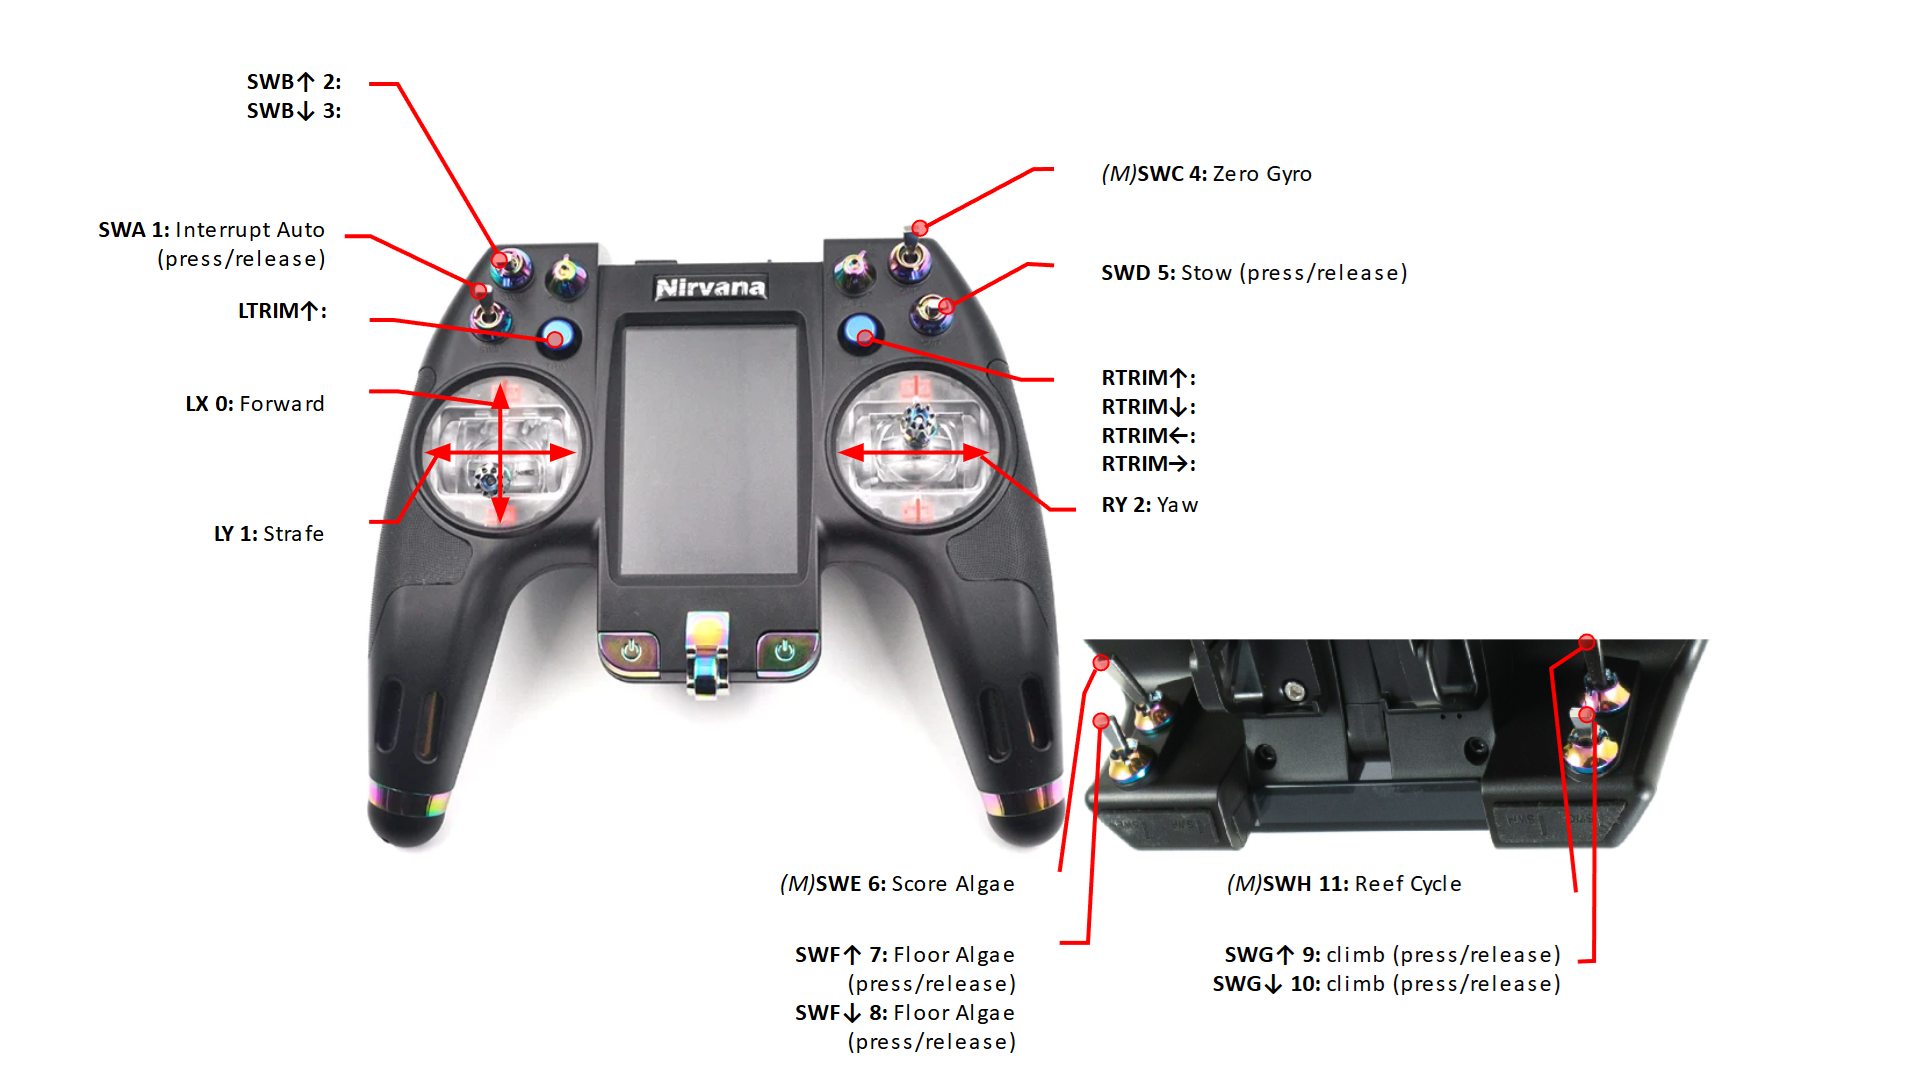
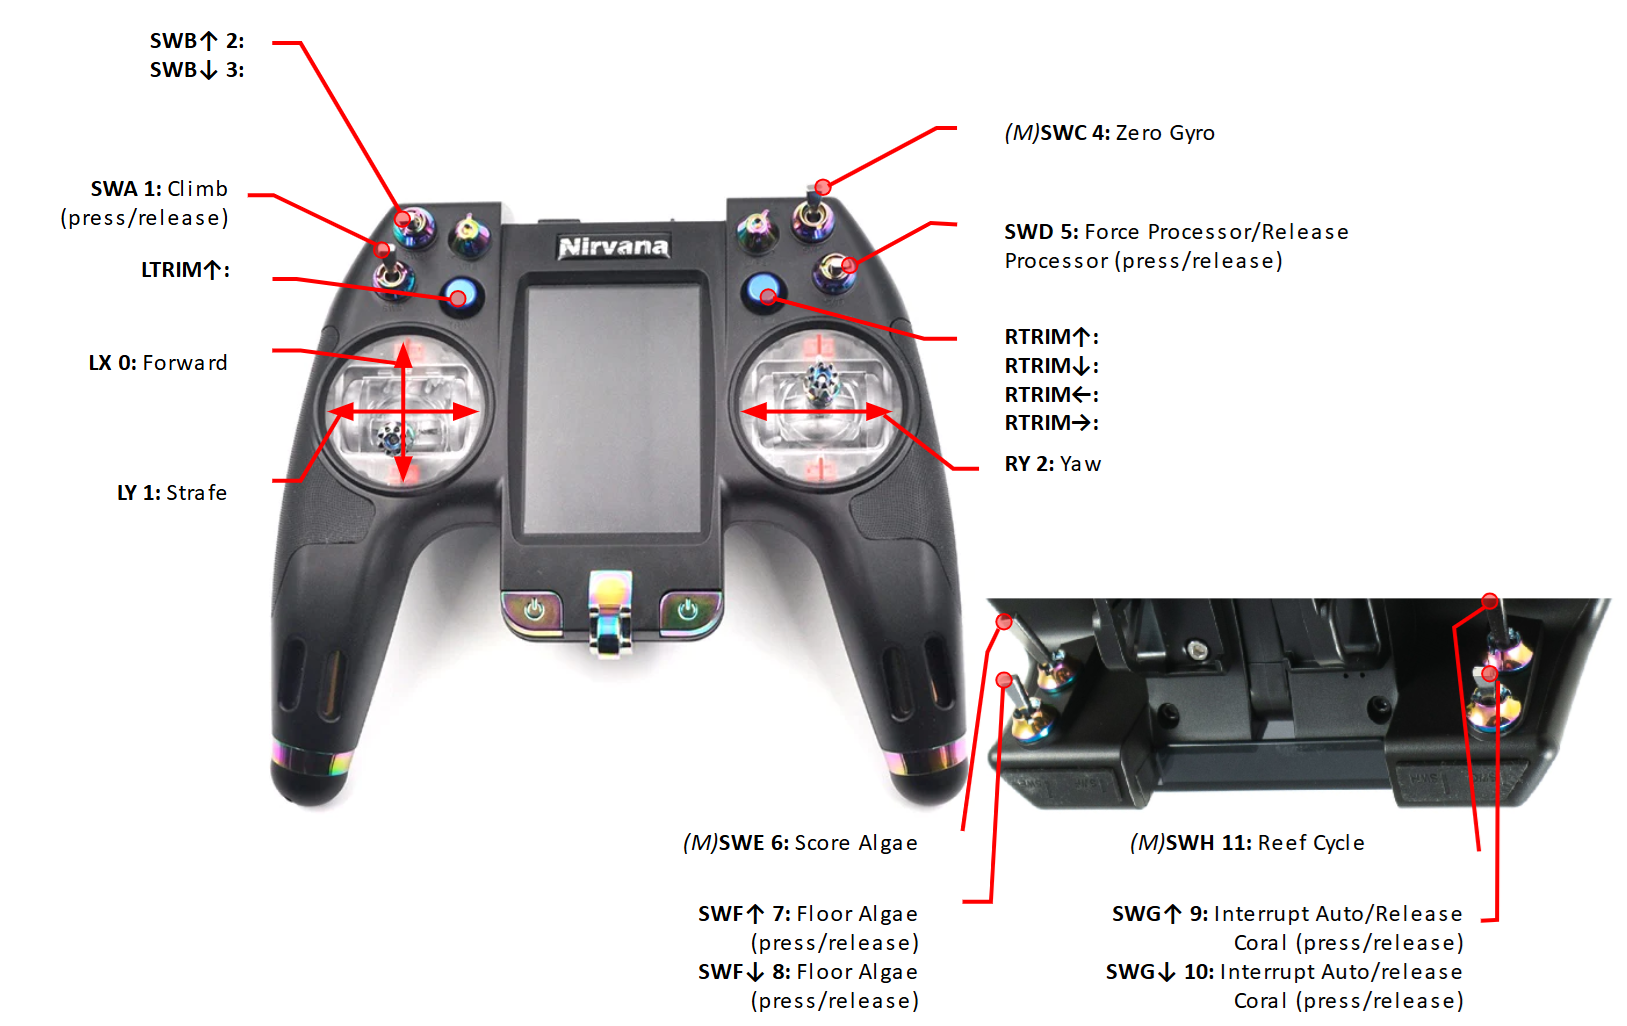
fix typo in constants, update readme

diff --git a/src/main/java/frc/robot/constants/TagServoingConstants.java b/src/main/java/frc/robot/constants/TagServoingConstants.java
@@ -47,11 +47,11 @@ public class TagServoingConstants {
   public static final double kNoUpdateMicrosec = 500_000;
 
   // Drive
-  public static final double kCoralInitialDriveRadius = 1.75; // 0.36 away from reef wall
+  public static final double kCoralInitialDriveRadius = 1.7; // 0.36 away from reef wall
   public static final double kCoralAlignRadius = 1.32; // 1.293823 is perfectly against the reef
   // public static final double kCoralStopXDriveRadius =
   //     kCoralInitialDriveRadius; // Should be closer to reef than target pose
-  public static final double kAlgaeInitialDriveRadius = 1.;
+  public static final double kAlgaeInitialDriveRadius = 1.75;
   public static final double kAlgaeAlignRadius = 1.34; // was 1.34
   public static final double kAlgaeStopXDriveRadius =
       kAlgaeInitialDriveRadius; // Should be closer to reef than target pose

diff --git a/README.md b/README.md
@@ -46,14 +46,15 @@
 | --------------- | ------- | ------- | --- |
 | Pigeon 2        | 12      | 0.5     | 4   |
 | Ethernet Switch | 12      | 2       |     |
-|                 |         |         |     |
+| Headlights      | 12      | 0.5     |     |
 
 ## Beam Breaks
 | Subsystem | Talon   | ID  | Fwd/Rev | Purpose            |
 | --------- | ------- | --- | ------- | ------------------ |
-| Funnel    | rollers | 40  |         | Coral Presence     |
-| Coral     | wheels  | 30  |         | Coral partially in |
-| Coral     | wheels  | 30  |         | Coral fully in     |
+| Funnel    | rollers | 40  | REV     | Coral Presence     |
+| Coral     | wheels  | 35  | REV     | Coral partially in |
+| Coral     | wheels  | 35  | FWD     | Coral fully in     |
+| Algae     | algae   | 30  | FWD     | Algae in claw      |
 
 
 ## Roborio
@@ -62,38 +63,38 @@
 | n/a       | USB       | CANivore |
 
 ## DIO
-| Subsystem  | name        | ID  |
-| ---------- | ----------- | --- |
-| BattMon    | Batt I      | 0   |
-| BattMon    | PDP V       | 1   |
-| BattMon    | Breaker T   | 2   |
-| Climb      | cageAligned | 3   |
-| AutoSwitch | switch      | 4   |
-| AutoSwitch | switch      | 5   |
-| AutoSwitch | switch      | 6   |
-| AutoSwitch | switch      | 7   |
-| AutoSwitch | switch      | 8   |
-| AutoSwitch | switch      | 9   |
+| Subsystem  | name             | ID  |
+| ---------- | ---------------- | --- |
+| BattMon    | Batt I           | 0   |
+| BattMon    | PDP V            | 1   |
+| BattMon    | Breaker T        | 2   |
+| TagServo   | Headlight Enable | 3   |
+| AutoSwitch | switch           | 4   |
+| AutoSwitch | switch           | 5   |
+| AutoSwitch | switch           | 6   |
+| AutoSwitch | switch           | 7   |
+| AutoSwitch | switch           | 8   |
+| AutoSwitch | switch           | 9   |
 
 ## MXP
-| Subsystem | name        | ID  |
-| --------- | ----------- | --- |
-| TagServo  | wallSense   | 10  |
-| TagServo  | headLights  | 11  |
-|           |             | 12  |
-|           |             | 13  |
-|           |             | 14  |
-|           |             | 15  |
-|           |             | 16  |
-|           |             | 17  |
-|           |             | 18  |
-|           |             | 19  |
-|           |             | 20  |
-|           |             | 21  |
-|           |             | 22  |
-|           |             | 23  |
-|           |             | 24  |
-|           |             | 25  |
+| Subsystem | name | ID  |
+| --------- | ---- | --- |
+|           |      | 10  |
+|           |      | 11  |
+|           |      | 12  |
+|           |      | 13  |
+|           |      | 14  |
+|           |      | 15  |
+|           |      | 16  |
+|           |      | 17  |
+|           |      | 18  |
+|           |      | 19  |
+|           |      | 20  |
+|           |      | 21  |
+|           |      | 22  |
+|           |      | 23  |
+|           |      | 24  |
+|           |      | 25  |
 
 
 ## PWM
@@ -111,18 +112,18 @@
 |           |              | 9   |    
 
 ## Analog
-| Subsystem | name   | ID  |
-| --------- | ------ | --- |
-| Elevator  | height | 0   |
-|           |        | 1   |
-|           |        | 2   |
-|           |        | 3   |
-|           |        | 4   |
-|           |        | 5   |
-|           |        | 6   |
-|           |        | 7   |
-|           |        | 8   |
-|           |        | 9   |
+| Subsystem | name | ID  |
+| --------- | ---- | --- |
+|           |      | 0   |
+|           |      | 1   |
+|           |      | 2   |
+|           |      | 3   |
+|           |      | 4   |
+|           |      | 5   |
+|           |      | 6   |
+|           |      | 7   |
+|           |      | 8   |
+|           |      | 9   |
 
 ## Cameras
 | Camera      | IP Address  | Type    |
